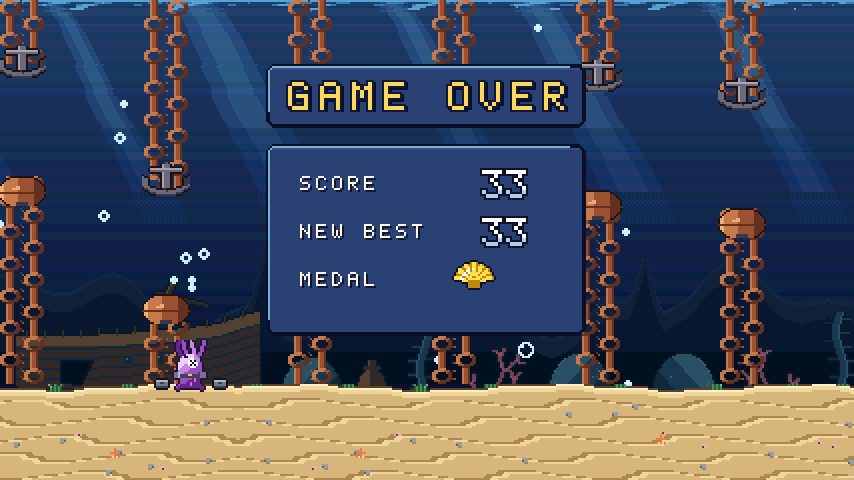
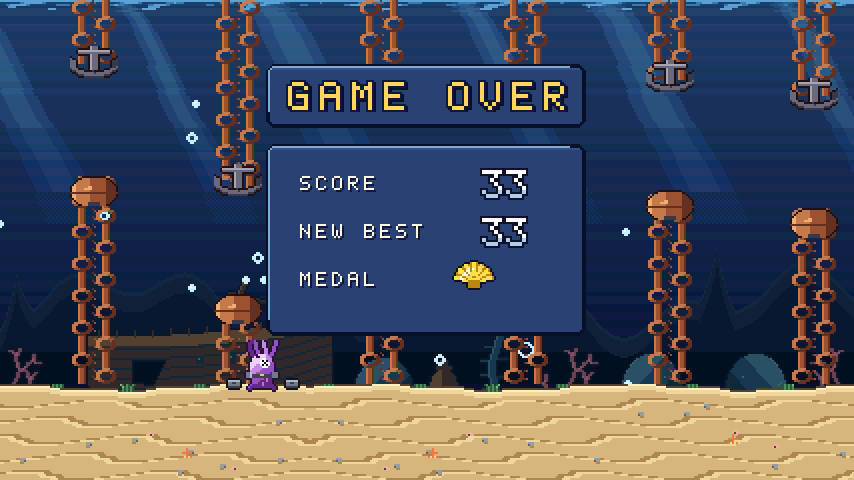
Wide view 1/3 left: leadysquid
The owner's decision: in widescreen the squid sat too far left before a long empty
stretch. A third of the extra width (past 320 columns) is now shown behind the squids,
two thirds ahead: the stage origin is WIDE_LEFT(width - 320) (tuning.h: 36 at 427, 67
at 520, 80 at 560, 0 at 320), so the squids swim that much further right; the UI stays
centred (hu_ui_x follows the origin), the sounds pan from the screen x.
- The sea behind them is drawn: the passed gates keep their caps and columns until they
  leave the REAL left edge (the world keeps the obstacles that long; the course columns
  are cleared from there), the bubbles rise across the whole width, the weights leave
  at that edge; the scenery behind the starting line on the title.
- The world, the generation, the physics, the scoring are unchanged, and the first gate
  is still 224 px ahead at every width (d55eded): the logs at 320, 427 and 520 are
  identical to before; 320 is byte-identical (300 dense pictures, 4 logs, the UI
  screens compared).
- tests/test_caps.c: pixel columns are screen columns (stage x + origin), the caps' OAM
  x stage ones; the caps/stalk checks pass at 320, 427 and 520. tests/wide_test.sh: the
  view check (--opt view=1) asserts the third on the left, P1's screen x (that of 320
  plus the third) and the next gate's distance on the screen (that of 320, 224 px at the
  start) at 427, 520 and 560, on the title, at the start, in a run and a 4-player race.
[…]

diff --git a/games/leadysquid/src/draw.c b/games/leadysquid/src/draw.c
@@ -132,6 +132,8 @@ void draw_init(void)
     rs_tiles_load(VR_BG2, ls_bg2_tiles, ls_bg2_tile_count);
     rs_tiles_load(VR_BG3, ls_bg3_tiles, ls_bg3_tile_count);
     rs_tiles_load(VR_BG4, ls_bg4_tiles, ls_bg4_tile_count);
+    /* widescreen: a third of the extra width behind the squids (tuning.h WIDE_LEFT): the stage origin; 0 at 320 */
+    rs_screen_origin(WIDE_LEFT(rs_screen_width() - RS_SCREEN_W));
     maps_setup();
     for (int l = 0; l < 4; l++) rs_bg_enable(l, 1);
     rs_obj_base(VR_OBJ);
@@ -163,7 +165,8 @@ void draw_reset_course(const world *w)
         for (int x = 0; x < rs_bg_map_w(RS_BG2); x++) rs_bg_put(RS_BG2, x, y, 0);
     drawn_index = w->first_index - 1;
     drawn_seed = w->seed;
-    cleared_col = world_scroll_px(w) / 8 > 1 ? world_scroll_px(w) / 8 - 1 : 0;
+    int c = (world_scroll_px(w) + rs_screen_left()) / 8;   /* the screen's first column (widescreen: left of x 0) */
+    cleared_col = c > 1 ? c - 1 : 0;
 }
 
 /* Widescreen: the first obstacle is at the same distance from the squid at every width (world.c), so a wide screen
@@ -183,8 +186,8 @@ static void course_tiles(const world *w)
      * whenever the course changes. */
     if (w->seed != drawn_seed) draw_reset_course(w);
     int sx = world_scroll_px(w), cm = rs_bg_map_w(RS_BG2) - 1;
-    /* clear the columns that left the screen on the left */
-    for (; cleared_col < sx / 8 - 1; cleared_col++)
+    /* clear the columns that left the screen on the left (widescreen: its real left edge, rs_screen_left()) */
+    for (; cleared_col < (sx + rs_screen_left()) / 8 - 1; cleared_col++)
         for (int y = 0; y < PLAY_H / 8; y++) rs_bg_put(RS_BG2, cleared_col & cm, y, 0);
     for (int i = 0; i < w->nob; i++) {
         const obstacle *o = &w->ob[i];
@@ -282,12 +285,12 @@ void fx_update(const world *w)
             } else {
                 f->frame = 1;
             }
-            if ((f->x >> 8) < -16) f->kind = FX_NONE;
+            if ((f->x >> 8) < rs_screen_left() - 16) f->kind = FX_NONE;
             break;
         }
     }
     /* ambient bubbles rising from the seabed, now and then */
-    if (rs_rng_range(&fx_rng, 100) < 4) bubble_at(8 + rs_rng_range(&fx_rng, rs_screen_width() - 16), SEABED_Y + 4, rs_rng_range(&fx_rng, 3));
+    if (rs_rng_range(&fx_rng, 100) < 4) bubble_at(rs_screen_left() + 8 + rs_rng_range(&fx_rng, rs_screen_width() - 16), SEABED_Y + 4, rs_rng_range(&fx_rng, 3));
 }
 
 /* ---- sprites --------------------------------------------------------------------------------------------- */
@@ -319,13 +322,16 @@ static int squid_sprite(const squid *s, int t)
     }
 }
 
+static int p1_drawn_x;      /* tests (draw_view_log): the screen x of P1's sprite centre, as drawn */
 static void draw_squids(const world *w)
 {
     for (int p = 0; p < w->players; p++) {
         const squid *s = &w->sq[p];
         if (s->state == SQ_OFF) continue;
         int cy = (int)((s->y + Q16_ONE / 2) >> 16);
+        int n = rs_oam_next();
         spr(squid_sprite(s, w->t), s->x - 16, cy - 16, 2, p ? hu_player_pal(p) : -1);   /* P2-P4: OBJ 1, 4, 5 */
+        if (p == 0) p1_drawn_x = rs_oam_next() > n ? rs_oam(n)->x + 16 + rs_screen_origin_x() : -999;
     }
 }
 
@@ -334,7 +340,7 @@ static void draw_caps(const world *w)
     int sx = world_scroll_px(w);
     for (int i = 0; i < w->nob; i++) {
         int x = w->ob[i].x - sx;
-        if (x <= -OBST_W || x >= rs_screen_right() || obstacle_hidden(w, &w->ob[i])) continue;   /* on screen only */
+        if (x <= rs_screen_left() - OBST_W || x >= rs_screen_right() || obstacle_hidden(w, &w->ob[i])) continue;   /* on screen only */
         int th = w->ob[i].theme, k = th & 1;
         if (cap_theme[k] != th) {
             rs_pal_load(RS_PAL_OBJ(OBJ_CAPS + k), ls_cap_pals[th], 16);
@@ -344,7 +350,7 @@ static void draw_caps(const world *w)
     for (int i = 0; i < w->nob; i++) {
         const obstacle *o = &w->ob[i];
         int x = o->x - sx;
-        if (x <= -OBST_W || x >= rs_screen_right() || obstacle_hidden(w, o)) continue;
+        if (x <= rs_screen_left() - OBST_W || x >= rs_screen_right() || obstacle_hidden(w, o)) continue;
         spr(SPR_CAP_KELP + o->theme * 2, x, o->gap_top - CAP_H, 2, OBJ_CAPS + (o->theme & 1));
         spr(SPR_CAP_KELP + o->theme * 2 + 1, x, o->gap_top + GAP, 2, OBJ_CAPS + (o->theme & 1));
     }
@@ -508,6 +514,16 @@ void draw_frame(const world *w, int state, int st_t, int best, int new_best, int
     draw_fx(1);
     draw_caps(w);
     draw_fx(0);
+}
+
+/* Tests (--opt view=1, main.c at exit): the view of the last frame, "view: width=W left=L p1_x=X next_x=N": L the columns
+ * shown behind the squids (the stage origin), X the screen x of P1's sprite centre as drawn, N the screen x of P1's next
+ * obstacle (tests/wide_test.sh: X and N - X against 320) */
+void draw_view_log(const world *w)
+{
+    const obstacle *o = world_next_obstacle(w, 0);
+    rs_log("view: width=%d left=%d p1_x=%d next_x=%d", rs_screen_width(), rs_screen_origin_x(), p1_drawn_x,
+           o ? o->x - world_scroll_px(w) + rs_screen_origin_x() : -999);
 }
 
 /* ---- save states (main.c) ----

diff --git a/games/leadysquid/tests/test_caps.c b/games/leadysquid/tests/test_caps.c
@@ -106,7 +106,7 @@ static void fail(int frame, uint32_t seed, const obstacle *o, int ox, const char
 
 static void check_frame(const world *w, int frame)
 {
-    int sx = world_scroll_px(w);
+    int sx = world_scroll_px(w), org = rs_screen_origin_x();   /* widescreen: screen column = stage x + org */
     render_without_sprites(1, with_bg2);
     render_without_sprites(0, without_bg2);
     for (int i = 0; i < SW * SH; i++) body[i / SW][i % SW] = with_bg2[i] != without_bg2[i];
@@ -114,7 +114,7 @@ static void check_frame(const world *w, int frame)
     phase_seen[sx & 7] = 1;
     for (int i = 0; i < w->nob; i++) {
         const obstacle *o = &w->ob[i];
-        int ox = o->x - sx, g = o->gap_top;
+        int ox = o->x - sx + org, g = o->gap_top, stx = ox - org;   /* its screen column (pixels), stage x (OAM) */
         int x0 = ox < 0 ? 0 : ox, x1 = ox + OBST_W > SW ? SW : ox + OBST_W;
         if (x1 <= x0) continue;
         /* widescreen: before the run starts, the obstacles on the screen are not shown at all (draw.c; the first flap
@@ -123,8 +123,8 @@ static void check_frame(const world *w, int frame)
             int n = 0;
             for (int y = 0; y < PLAY_H; y++)
                 for (int x = x0; x < x1; x++) n += body[y][x];
-            if (n || cap_in_oam(SPR_CAP_KELP + o->theme * 2, ox, g - CAP_H) ||
-                cap_in_oam(SPR_CAP_KELP + o->theme * 2 + 1, ox, g + GAP))
+            if (n || cap_in_oam(SPR_CAP_KELP + o->theme * 2, stx, g - CAP_H) ||
+                cap_in_oam(SPR_CAP_KELP + o->theme * 2 + 1, stx, g + GAP))
                 fail(frame, w->seed, o, ox, "an obstacle shown before the run starts (the title must stay clear)");
             hidden_checked++;
             continue;
@@ -134,9 +134,9 @@ static void check_frame(const world *w, int frame)
         /* the caps (sprites) at the gap's exact pixel height */
         const ls_sprite_def *cap = &ls_spr[SPR_CAP_KELP + o->theme * 2];
         if (ox > -(int)cap->w && ox < SW) {
-            if (!cap_in_oam(SPR_CAP_KELP + o->theme * 2, ox, g - CAP_H))
+            if (!cap_in_oam(SPR_CAP_KELP + o->theme * 2, stx, g - CAP_H))
                 fail(frame, w->seed, o, ox, "no top cap sprite ending at the gap top");
-            if (!cap_in_oam(SPR_CAP_KELP + o->theme * 2 + 1, ox, g + GAP))
+            if (!cap_in_oam(SPR_CAP_KELP + o->theme * 2 + 1, stx, g + GAP))
                 fail(frame, w->seed, o, ox, "no bottom cap sprite starting at the gap bottom");
         }
         /* no column body inside the gap (nor beside the column) */

diff --git a/games/leadysquid/src/tuning.h b/games/leadysquid/src/tuning.h
@@ -80,6 +80,12 @@
 
 /* ---- the squid on screen ------------------------------------------------- */
 #define SQUID_X        96       /* centre of the hitbox, screen x (the reference: 0.2 of the width) */
+/* Widescreen (DESIGN.md "Widescreen"): the share of the extra width (the columns past 320) shown BEHIND the squids, on
+ * the left: one third (the owner's decision), the other two thirds ahead. The stage origin is WIDE_LEFT(width - 320):
+ * 36 px at 427, 67 at 520, 80 at 560, 0 at 320 (rounded). */
+#define WIDE_LEFT_NUM  1
+#define WIDE_LEFT_DEN  3
+#define WIDE_LEFT(extra) (((extra) * WIDE_LEFT_NUM * 2 + WIDE_LEFT_DEN) / (2 * WIDE_LEFT_DEN))
 #define SQUID_START_Y  ((PLAY_H / 2) - 8)   /* centre at the start of a run */
 #define P2_OFFSET_X    32       /* player 2 swims this far behind player 1 */
 #define P_OFFSET_4P    24       /* 3-4 players: each next squid this far behind (P4 at x 24) */

diff --git a/games/leadysquid/src/world.c b/games/leadysquid/src/world.c
@@ -31,12 +31,13 @@ static void add_obstacle(world *w)
     w->next_index++;
 }
 
-/* keep the obstacles from just behind the screen to two spacings past its right edge (the real one: widescreen) */
+/* keep the obstacles from just behind the screen to two spacings past its right edge (the real ones: widescreen; a third
+ * of the extra width is shown on the left, rs_screen_left() < 0) */
 static void course(world *w)
 {
     int sx = world_scroll_px(w), k = 0;
     for (int i = 0; i < w->nob; i++)
-        if (w->ob[i].x + OBST_W >= sx - 64) w->ob[k++] = w->ob[i];
+        if (w->ob[i].x + OBST_W >= sx + rs_screen_left() - 64) w->ob[k++] = w->ob[i];
     w->nob = k;
     while (w->nob < OB_MAX && (w->nob == 0 || w->ob[w->nob - 1].x < sx + rs_screen_width() + 2 * SPACING))
         add_obstacle(w);

diff --git a/games/leadysquid/src/sfx.c b/games/leadysquid/src/sfx.c
@@ -47,13 +47,13 @@ void sfx_init(void)
 void sfx_pan(int id, int x)
 {
     if (!sound_on) return;
-    int pan = clampi(24 + x * 80 / rs_screen_width(), 0, 127);    /* x: the screen x (the origin is 0) */
+    int pan = clampi(24 + (x + rs_screen_origin_x()) * 80 / rs_screen_width(), 0, 127);   /* x: a stage x */
     static const uint8_t vol[SFX_COUNT] = {88, 70, 110, 96, 50, 70, 80, 70};
     int v = rs_sfx(id, vol[id], pan, RS_PITCH_1);
     if (v >= 0 && (id == SFX_DING || id == SFX_BLOOP || id == SFX_CLANK)) rs_voice_echo(v, 1);
 }
 
-void sfx(int id) { sfx_pan(id, rs_screen_width() / 2); }
+void sfx(int id) { sfx_pan(id, rs_screen_width() / 2 - rs_screen_origin_x()); }   /* the screen's centre */
 
 void music_start(void)
 {

diff --git a/games/leadysquid/src/main.c b/games/leadysquid/src/main.c
@@ -13,6 +13,7 @@
  *   players=N      start with N players joined (1..4)
  *   ready=1        skip the title (the run waits for its first flap)
  *   dump=1         log the final state at exit (tests); music=0, sound=0
+ *   view=1         log the view at exit (tests/wide_test.sh: widescreen, a third of the extra width behind)
  */
 #include "ls.h"
 #include "assets.h"
@@ -231,6 +232,7 @@ static void game_init(void)
 
 static void game_shutdown(void)
 {
+    if (rs_option_int("view", 0)) draw_view_log(&W);      /* tests/wide_test.sh: the view (widescreen) */
     if (!rs_option_int("dump", 0)) return;
     char list[400] = "";
     for (int i = 0; i < nbot_scores; i++) {

diff --git a/games/leadysquid/src/ls.h b/games/leadysquid/src/ls.h
@@ -111,6 +111,7 @@ void bot_reset(void);
 /* save states: each console-side file registers its objects (rs_state_var...), called from main.c */
 void draw_state(void);
 void draw_state_loaded(const world *w);    /* a state of another width: the maps for this one */
+void draw_view_log(const world *w);         /* tests (--opt view=1): the view at exit (widescreen) */
 void sfx_state(void);
 void bot_state(void);
 void bot_state_loaded(void);

diff --git a/games/leadysquid/DESIGN.md b/games/leadysquid/DESIGN.md
@@ -124,9 +124,14 @@ the winner's name on the banner ("P3 WINS!" or "DRAW!"). The best score counts a
 
 ## Widescreen (docs/spec.md "Widescreen")
 The game opts in (`max_width` = 560, `WIDESCREEN_leadysquid = 1`): 320 (4:3) is unchanged pixel for pixel; at 427
-(16:9) or 520 (phones) **the world is simply revealed wider**, to the right.
-- The stage origin stays 0: the squids swim at the same screen x (96, P2-P4 behind), the screen shows further ahead.
-  Seeing further makes it a little easier; the owner accepts it (no compensation).
+(16:9) or 520 (phones) **the world is simply revealed wider: a third of the extra width behind the squids, two
+thirds ahead**.
+- The owner's decision: with all of the extra width ahead the squid sat too far left before a long empty stretch. The
+  stage origin is `WIDE_LEFT(width - 320)` (tuning.h: 36 px at 427, 67 at 520, 80 at 560, 0 at 320): the squids swim
+  that much further right on the screen (x 96 + the origin, P2-P4 behind), the screen shows the rest further ahead.
+  Seeing further makes it a little easier; the owner accepts it (no compensation). Behind them the sea is drawn like
+  the rest: the passed gates (their columns are cleared once off the REAL left edge, the world keeps the obstacles
+  until then), the scenery, the bubbles; before the start (the title too) the sea behind the starting line.
 - **The course is world content.** The first obstacle is at the same distance from the squid at every width (x 320,
   224 px ahead: the run-up of 4:3, not one growing with the width, which the owner's phone test found too long), so a
   wide screen already shows the first gates when the run starts. Before the start (the title, waiting for the first
@@ -144,7 +149,11 @@ The game opts in (`max_width` = 560, `WIDESCREEN_leadysquid = 1`): 320 (4:3) is 
 - Save states load at any width: a state of another width brings maps of another size, so `state_loaded` sets them up
   again (scenery, the course redrawn from the saved obstacles, the UI and PAUSED on the next frame); the course goes on
   from the saved obstacles, the generator adds the next ones up to the new edge. tests/wide_test.sh checks it.
-- The caps test (tests/test_caps.c) runs at every width (`make leadysquid-check` loops over WIDTHS = 427 520).
+- The caps test (tests/test_caps.c) runs at every width (`make leadysquid-check` loops over WIDTHS = 427 520). Its
+  pixel columns are screen columns (the stage x plus the origin), the caps' OAM x stage ones.
+- tests/wide_test.sh checks the view (`--opt view=1` logs it at exit) at 320, 427, 520 and 560: the third on the
+  left, P1's screen x (that of 320 plus the third) and the next gate's distance on the screen (that of 320: the first
+  one 224 px ahead at the start), on the title, at the start, in a run and in a 4-player race.
 
 ## Audio
 - Sound effects synthesised in code at start-up (sfx.c): **bloop** (a short rising sine with a bubbly
